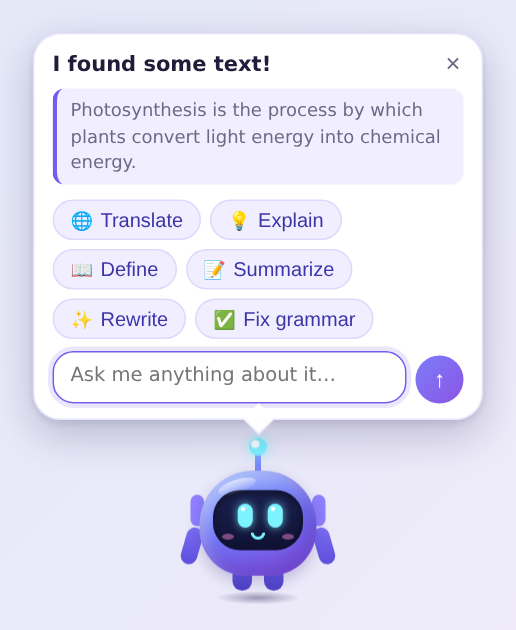
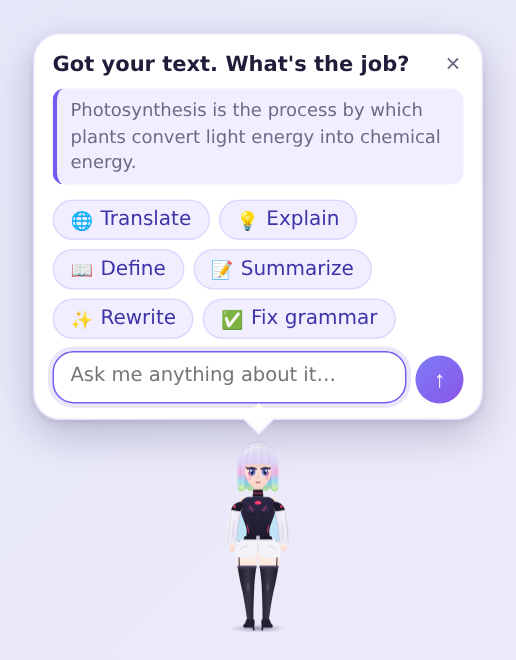
Document Lucy's looks, moods and the clip converter
Refresh screenshots with the current built-in look, add the outfit sheet,
and explain how to use a VRoid Studio model or anime clips.

Claude-Session: https://claude.ai/code/session_01D9iYfjvuHRj6jMBtLxf4Df

diff --git a/README.md b/README.md
@@ -1,9 +1,14 @@
-# 🤖 AI Pet
+# 🤖 AI Pet — Lucy
 
-A tiny, lightweight AI companion that lives on your macOS desktop. It floats above your windows,
-wanders around, and when you press **⌥P** it pops up next to whatever text you've selected to
-translate, explain, define, summarize, rewrite or fix it — or just chat. It can speak its answers
-with the built-in macOS voices.
+A tiny, lightweight AI companion that lives on your macOS desktop. **Lucy** (inspired by the
+netrunner from *Cyberpunk: Edgerunners*) floats above your windows, wanders around, and when you
+press **⌥P** she pops up next to whatever text you've selected to translate, explain, define,
+summarize, rewrite or fix it — or just chat. She speaks her answers with the built-in macOS
+voices, and changes clothes when her mood changes.
+
+Her look is swappable: the built-in drawing, **your own 3D VRM model**, or **anime clips /
+animated images** cut out with the included converter — see
+[Make her look like the real Lucy](#make-her-look-like-the-real-lucy).
 
 Built with **Tauri 2 + Rust + TypeScript** (no Electron, no frontend framework) following
 [`docs/BUILD_GUIDE.md`](docs/BUILD_GUIDE.md).
@@ -12,7 +17,7 @@ Built with **Tauri 2 + Rust + TypeScript** (no Electron, no frontend framework) 
 | --- | --- |
 | <img src="docs/screenshots/task-menu.png" width="330" alt="Task menu next to the pet"> | <img src="docs/screenshots/translate.png" width="330" alt="Streaming translation"> |
 
-<img src="docs/screenshots/poses.png" width="680" alt="Pet poses: idle, walk, thinking, talking, listening, error, sleep, happy, wave">
+<img src="docs/screenshots/poses.png" width="680" alt="Built-in look poses: thinking, talking, error, sleep, happy, wave, hair touch, glance, walk">
 
 ## Features
 
@@ -25,7 +30,10 @@ Built with **Tauri 2 + Rust + TypeScript** (no Electron, no frontend framework) 
 - **Any AI provider** — OpenAI, Anthropic (Claude), Ollama / LM Studio (local, no key), OpenRouter, or any OpenAI-compatible endpoint.
 - **Private by design** — nothing is read until you press the shortcut, nothing is sent until you pick an AI action, keys live in the Keychain, and selected text is never logged.
 - **Menu bar icon** + **right-click menu** for control even while the pet is hidden.
-- **Lightweight** — the pet sits completely still between occasional blinks; ~21 KB of gzipped JS; no work at all while hidden.
+- **Moods & wardrobe** — Lucy's mood (confident, focused, dreamy, sleepy, playful, melancholy) follows the time of day and how you use her; in *auto* mode she changes outfit and hair when it shifts (10 outfits, all fully clothed). Pick one yourself in Settings or the right-click menu.
+- **Her voice** — a calm, low, unhurried delivery on the best installed macOS voice (Premium/Enhanced first); pace and pitch follow her mood. Her replies have a light Night City flavour; utility tasks return clean results.
+- **Three looks** — built-in drawing, a **3D VRM model** (procedural idle/walk/talk/think/sleep animation, blinking, lip movement, hair physics, one model per outfit if you like), or **anime clips / animated images** per state.
+- **Lightweight** — the built-in look sits completely still between occasional blinks; ~33 KB of gzipped JS; the 3D engine loads only if you pick a 3D model; no work at all while hidden.
 
 ## Quick start (macOS 13 Ventura or later)
 
@@ -120,6 +128,51 @@ xattr -cr "/Applications/AI Pet.app"
 Translation in **Auto** mode: Bangla (and other non-English text) → English, English → your
 chosen language (Bangla by default). Pick a fixed target in Settings if you prefer.
 
+## Make her look like the real Lucy
+
+The built-in look is a small drawing. For Lucy as she looks on screen, bring your own art — it
+stays on your Mac (in the app's data folder) and is never uploaded or committed.
+
+<img src="docs/screenshots/outfits.png" width="680" alt="Built-in outfits">
+
+### Option A — 3D model (moves, walks, talks, changes outfits)
+
+1. Install **[VRoid Studio](https://vroid.com/en/studio)** (free) and create her: pink-white
+   blunt bob with lavender/rainbow tips, violet eyes, black high-neck bodysuit, white cropped
+   jacket, black thigh-high boots. Save a variant per outfit if you want her to change clothes.
+2. **File → Export → Export as VRM** (VRM 0.x or 1.0 both work).
+3. **Settings → Character → Look: 3D model (VRM) → Import .vrm…**. With several models,
+   *Models per outfit* maps each outfit to one; mood changes then swap the model.
+
+Models from other tools (e.g. VRM exports from Blender/Unity) work too. Respect each model's
+licence terms.
+
+### Option B — anime clips / animated images
+
+Give each state its own short loop: **Idle** (required), Walking, Talking, Thinking, Listening,
+Sleeping, Confused, Happy, Waving. Accepted: animated WebP/GIF/PNG, or WebM/MP4/MOV
+(transparent WebM/MOV float on the desktop; others show their background).
+
+To cut her out of a video you have, use the converter (runs locally, anime-trained background
+removal):
+
+```bash
+python3 -m venv .venv-sprites && source .venv-sprites/bin/activate
+pip install -r scripts/requirements-sprites.txt
+python3 scripts/make_sprite.py clip.mov idle.webp --start 5.4 --end 6.6 --pingpong
+```
+
+Then **Settings → Character → Look: Anime clips / images → Idle → Choose…**. Tips:
+
+- Pick 1–2 s where the camera is still and she's shown to the knees or full body; close-ups
+  become a floating bust (edges the shot cuts off are faded, the top of her head isn't).
+- One shot per clip: frames where the cut-out fails (motion blur, scene cuts) are dropped
+  automatically, but a range inside one shot works best. `--crop x,y,w,h` limits it to part of
+  the frame; `--height` sets the size (360 px default); `--fps` 8–15 keeps files small.
+- `--pingpong` plays forward then back for a seamless idle loop.
+- Use footage you have the right to use, for your own desktop, and keep the output files out of
+  the repository.
+
 ## Permissions
 
 Only **Accessibility** (to read the selection when you press ⌥P, and to post Cmd+C for the
@@ -130,16 +183,19 @@ reasoning: [`docs/PERMISSIONS.md`](docs/PERMISSIONS.md).
 
 ```text
 src/                      TypeScript UI (vanilla, no framework)
-  components/             Pet (CSS robot), ChatBubble, TaskMenu, InputBox, SettingsPanel, richText
-  pet/                    PetState (FSM), AnimationController, RoamingController, PetPosition, PetController
+  components/             Pet + lucyArt (built-in look), VrmPet (3D), SpritePet (clips), CharacterView,
+                          ChatBubble, TaskMenu, InputBox, SettingsPanel, richText
+  pet/                    PetState (FSM), AnimationController, RoamingController, PetPosition,
+                          Wardrobe (moods/outfits), PetController
   ai/                     AIProvider, NativeAIProvider, PromptBuilder, TaskRunner, tasks, language
   services/               native IPC, SelectedText, Clipboard, TTS, Settings, speech helpers
   styles/                 pet.css, settings.css
 src-tauri/src/            Rust native layer
   hotkey.rs  accessibility.rs  clipboard.rs  selection.rs  screens.rs  window.rs
-  commands.rs  settings.rs  secrets.rs  tray.rs  tts.rs  autostart.rs  macos.rs
+  commands.rs  settings.rs  secrets.rs  tray.rs  tts.rs  autostart.rs  macos.rs  characters.rs
   ai/  openai.rs  anthropic.rs  sse.rs
 src-tauri/capabilities/   per-window IPC allow-lists (pet vs settings)
+scripts/                  setup-macos.sh, make_sprite.py (clip → transparent animated WebP)
 docs/                     BUILD_GUIDE (spec), ARCHITECTURE, PERMISSIONS, TESTING, DISTRIBUTION
 ```
 
@@ -148,9 +204,9 @@ More: [`docs/ARCHITECTURE.md`](docs/ARCHITECTURE.md).
 ## Development
 
 ```bash
-npm test               # 65 TypeScript unit tests (Vitest)
+npm test               # 80 TypeScript unit tests (Vitest)
 npm run typecheck
-cd src-tauri && cargo test && cargo clippy --all-targets -- -D warnings   # 32 Rust tests
+cd src-tauri && cargo test && cargo clippy --all-targets -- -D warnings   # 34 Rust tests
 ```
 
 Manual and performance test checklists: [`docs/TESTING.md`](docs/TESTING.md). Logs:

diff --git a/docs/ARCHITECTURE.md b/docs/ARCHITECTURE.md
@@ -68,7 +68,29 @@ collection behaviour `CanJoinAllSpaces | Stationary | IgnoresCycle | FullScreenA
 `OFF → IDLE ⇄ WALKING`, `IDLE → SLEEPING`, `→ INTERACTING → THINKING → SPEAKING → INTERACTING/IDLE`,
 `→ ERROR → IDLE/INTERACTING`. Illegal transitions are rejected. Animations: idle (brief float,
 then still), walk, thinking, talking, listening, error, sleep, plus one-shot gestures (blink,
-look, hop, wave, happy, snore).
+look, glance, hair touch, hop, wave, happy, snore, outfit change).
+
+## Characters, moods and wardrobe
+
+`PetController` talks to the character only through `CharacterView` (`src/components/CharacterView.ts`),
+so the look can be swapped at runtime (Settings → Character):
+
+| Renderer | File | How it animates |
+| --- | --- | --- |
+| Built-in drawing | `Pet.ts` + `lucyArt.ts` | layered SVG parts moved by CSS transforms; outfits re-render the parts |
+| 3D model | `VrmPet.ts` | three.js + `@pixiv/three-vrm`, lazily imported; procedural bone animation per state/gesture, VRM expressions (mood, blink, mouth), spring-bone hair physics; 12–30 fps and stopped while hidden |
+| Clips / images | `SpritePet.ts` | one animated WebP/GIF/APNG or muted looping video per state, falling back to idle |
+
+User files are imported from the Settings window as a raw IPC body (`import_character_file`,
+metadata in headers), validated in `characters.rs` (extension, size, glTF magic for VRM, flat
+sanitized names) and stored under the app data folder in `characters/{vrm,sprites}`. The pet
+window can only list and read them; it gets bytes back as an `ArrayBuffer` and shows them via
+`blob:` URLs (allowed by the CSP for images/media only). `characters-changed` tells the pet to
+rebuild. If a look fails to load, the pet falls back to the built-in drawing and says why.
+
+`Wardrobe.ts` holds the moods, outfits and the pure decision functions: `decideMood` (time of
+day + recent activity from `MoodTracker`), `pickOutfit` (weighted per mood, never the current
+one) and `voiceFor` (speech rate/pitch per mood). The mood also shapes the chat system prompt.
 
 ## Adding a task (§35, §63)
 
@@ -78,7 +100,8 @@ register it with `TaskRunner.register()`. The bubble picks it up automatically.
 ## Security (§34)
 
 - IPC: every app command has an auto-generated permission (`build.rs`); the pet window can't
-  manage keys, the settings window can't move the pet or stream AI.
+  manage keys or import/delete character files, the settings window can't move the pet or
+  stream AI.
 - Arguments are validated in Rust (rect sanity, message roles/sizes, URL scheme/host, voice names).
 - No shell: the only processes spawned are `/usr/bin/say` (text via stdin) and `/usr/bin/open`
   with a fixed System Settings URL. AI output is only ever rendered as text.

diff --git a/docs/TESTING.md b/docs/TESTING.md
@@ -3,10 +3,10 @@
 ## Automated
 
 ```bash
-npm test                                   # Vitest — 65 tests
+npm test                                   # Vitest — 80 tests
 npm run typecheck
 cd src-tauri
-cargo test                                 # 32 tests
+cargo test                                 # 34 tests
 cargo clippy --all-targets -- -D warnings
 ```
 
@@ -21,6 +21,8 @@ cargo clippy --all-targets -- -D warnings
 | Settings | `src-tauri/src/settings.rs` — defaults, clamping, camelCase wire format; `secrets.rs` key validation |
 | Hotkeys | `src-tauri/src/hotkey.rs` — parsing, modifier requirement; `src/util/shortcut.test.ts` |
 | Language / speech | `src/ai/language.test.ts`, `src/services/speech.test.ts` |
+| Moods / wardrobe / voice | `src/pet/Wardrobe.test.ts` — mood decisions, outfit picks, mood tracker, voice choice |
+| Characters | `src/components/SpritePet.test.ts` — state fallbacks; `src-tauri/src/characters.rs` — name sanitizing, asset kinds |
 
 CI (`.github/workflows/ci.yml`) runs all of the above on Linux and again on macOS, then builds the
 universal `.dmg`.
@@ -55,6 +57,15 @@ Chrome · Safari · VS Code · Terminal · TextEdit · Notes · Preview (PDF) ·
       Wi-Fi off → "I couldn't reach my AI brain"; the pet returns to idle in every case.
 - [ ] No provider configured → "Connect an AI provider to use this feature" + Settings button.
 - [ ] *Allow AI requests* off → no network traffic (check with Little Snitch / `nettop`).
+
+### Character
+- [ ] Settings → Character → *3D model*: import a `.vrm` from VRoid Studio; she appears within a
+      few seconds, blinks, breathes, walks when roaming, talks while answering, waves hello.
+- [ ] With two models mapped to different outfits, *Change outfit* swaps the model.
+- [ ] *Anime clips / images*: import an Idle `.webp` (from `scripts/make_sprite.py`) and a Talking
+      clip; the talking one plays while she answers.
+- [ ] Remove the Idle file: the pet falls back to the built-in look and explains why.
+- [ ] Hidden pet (⌥⇧P) with the 3D look: CPU drops to ~0% (render loop stopped).
 
 ### Voice
 - [ ] Answers are spoken, starting before the text finishes; mouth animates while speaking.
